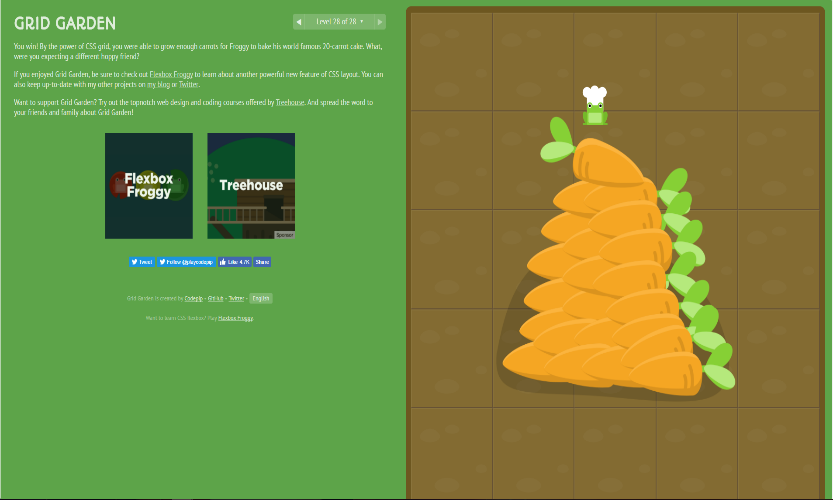
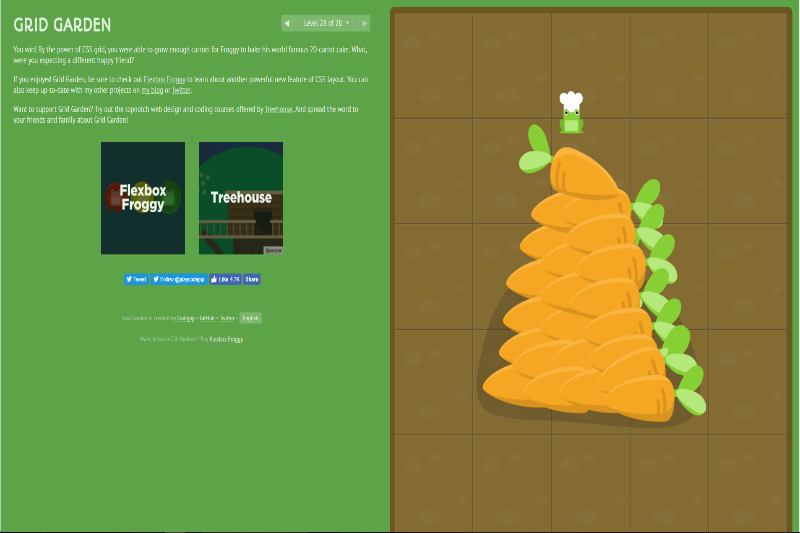
Changed background and thumbnail text color

diff --git a/stylesheets/styles.css b/stylesheets/styles.css
@@ -22,7 +22,7 @@ body {
   display: flex;
   flex-direction: column;
   font-size: 10px;
-  background: rgb(133, 145, 130);
+  background: rgb(17, 17, 17);
 }
 
 a {
@@ -62,7 +62,7 @@ a {
   justify-content: space-between;
   list-style: none;
   padding: 0;
-  white-space: nowrap;
+  white-space: nonwrap;
   overflow-x: auto;
 }
 
@@ -75,8 +75,8 @@ a {
   display: block;
   margin: 0;
   padding: 4px 10px;
-  background: rgb(96, 125, 139);
-  color: rgb(202, 238, 255);
+  background: rgb(17, 17, 17);
+  color: rgb(255, 252, 252);
   font-size: 18px;
 }
 
